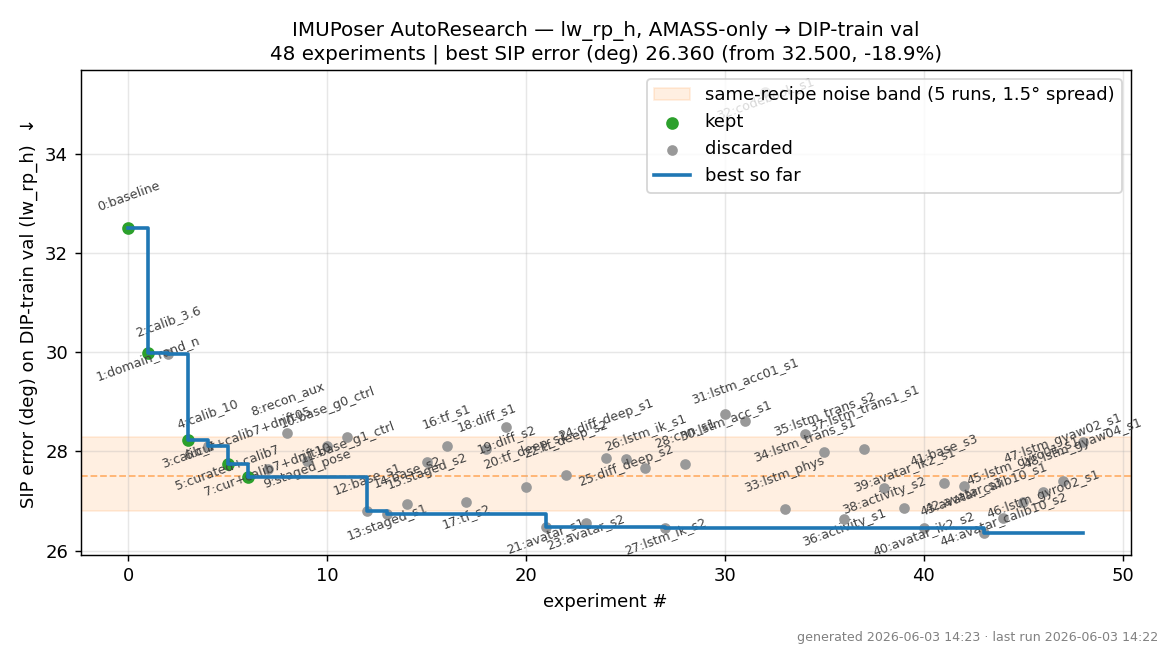
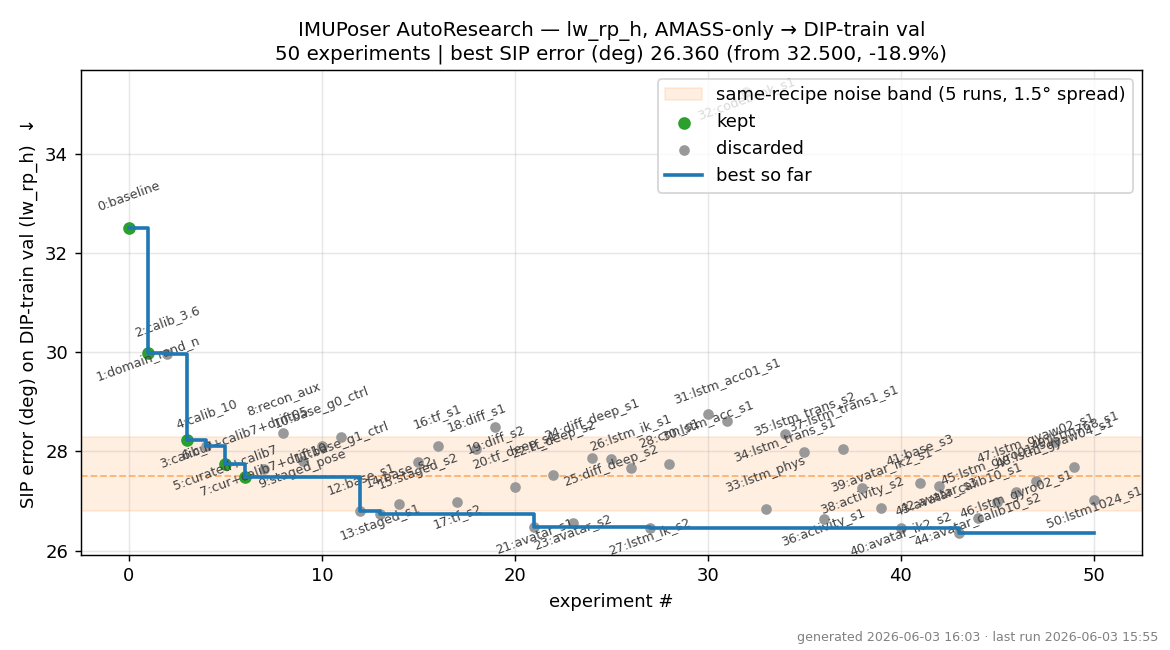
ar exp49-51: bigger-LSTM null (768=27.69,1024=27.01); 5-IMU teacher = 25.07 SIP/19.46 Angle (val)
Capacity not a lever (overfits). 5-IMU teacher is ~1.7 SIP / ~3.4 Angle better than 3-IMU students ->
real privileged-info headroom for distillation. Distilled student (exp53) + accel-realism (exp52) training.

diff --git a/ADDITIONAL_EXPERIMENTS.md b/ADDITIONAL_EXPERIMENTS.md
@@ -417,3 +417,10 @@ DRIFT on top (random-walk bias + noise), both all-axis and ESKF yaw-only:
 calibration already captures it, and extra drift just adds noise. Orientation-realism lever exhausted.
 Next data-realism axis: accelerometer realism (bias/scale/noise) — the accel is currently perfectly
 kinematic. (AUG_ACC_BIAS/SCALE added.) If that's also neutral, data-realism = calibration only.
+
+### Capacity & distillation (afternoon)
+- **Bigger LSTM doesn't help** (capacity null, not data-limited): hidden 768 -> 27.69, 1024 -> 27.01 vs
+  512 baseline 26.79 (worse-to-neutral; more params overfit).
+- **5-IMU teacher accuracy** (dip_train val): global(5-IMU) SIP 25.07 / Angle 19.46 / Joint 8.83cm —
+  ~1.7° SIP and ~3.4° Angle better than the best 3-IMU students (~26.8/22.9). That headroom = the
+  privileged-info gap the 5-IMU->3-IMU distillation (exp53) aims to transfer to the lw_rp_h student.
